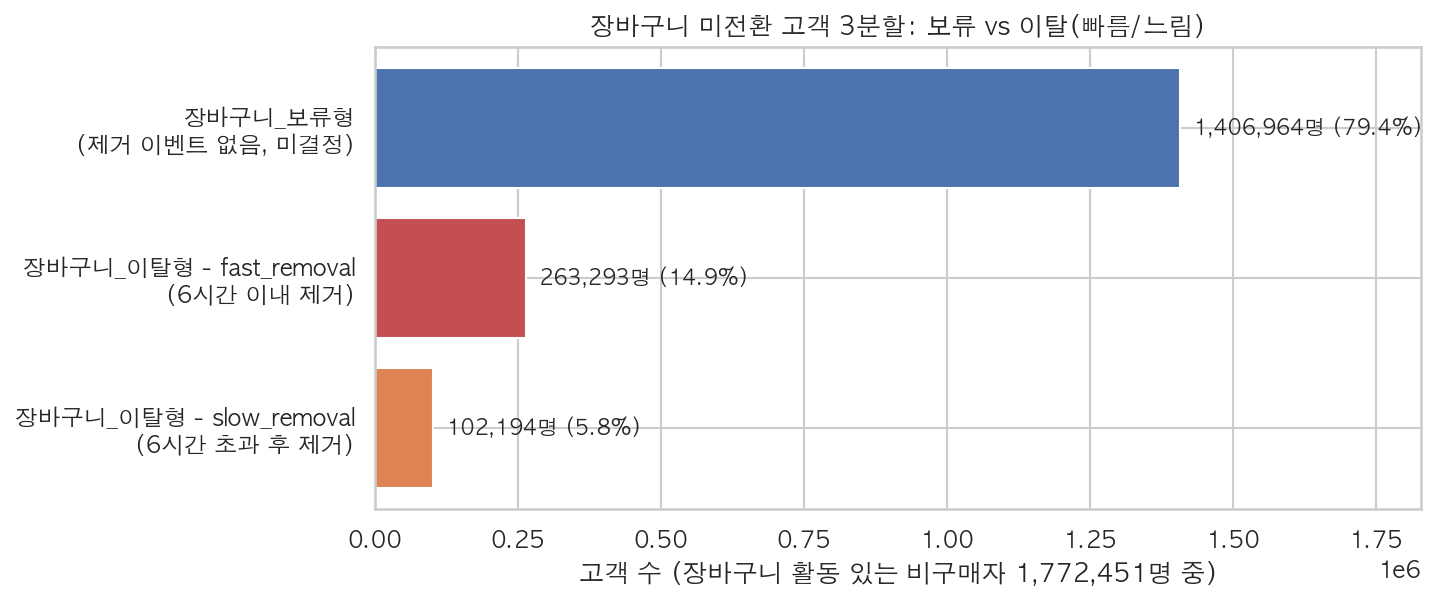
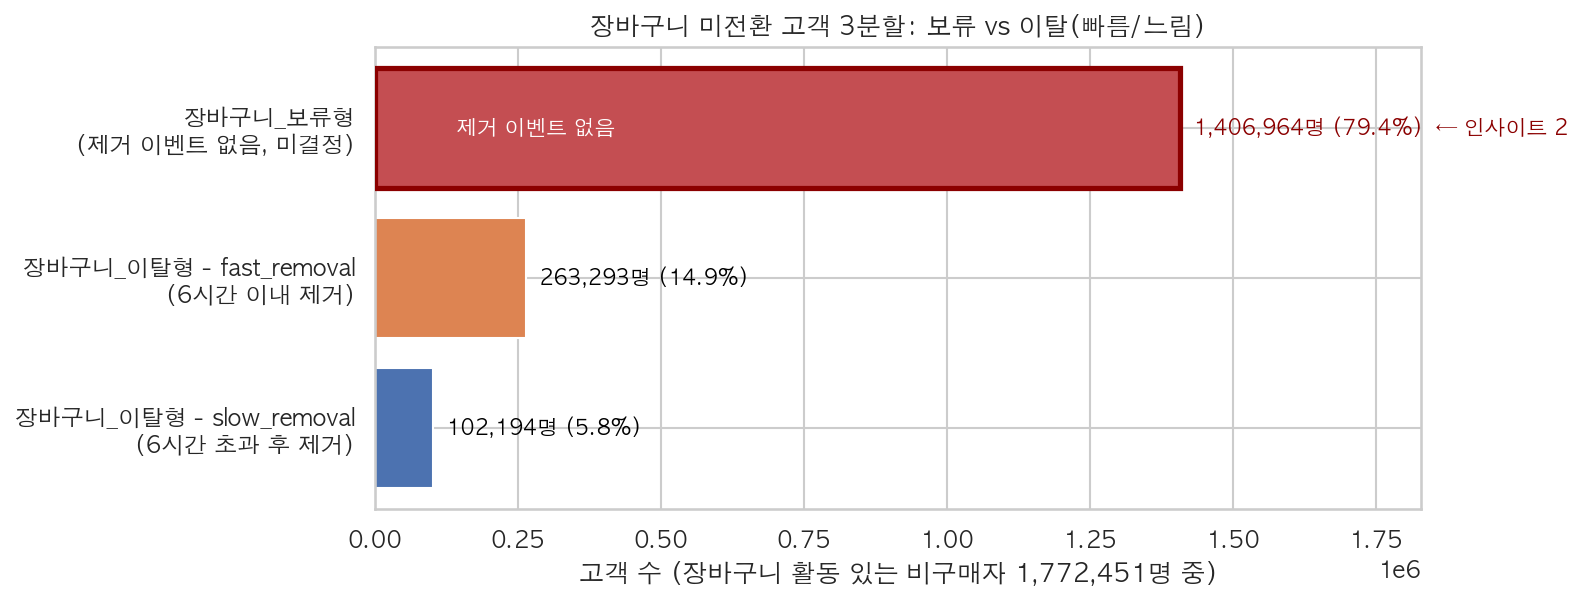
docs: 인사이트 그래프 4개에 핵심 수치 강조 표시 추가
- fig12_buyer_path_breakdown.png: 탐색X·장바구니X 구매(258,808명,
  28.47%) 강조 + "탐색 기록 없음" 라벨
- fig13_cart_segment_split.png: 장바구니_보류형(1,406,964명, 79.4%)
  강조 + "제거 이벤트 없음" 라벨
- 10_model_roc_lift_curves.png: Model A/B 접촉 10% 지점 강조
  (Lift 1.04 vs 6.23) — 본문이 실제 언급한 접촉 비율 기준
- fig14_category_repurchase_rate.png: 카테고리 1096(28.59%, z=95.9)
  강조 — 인접한 미언급 카테고리(5479)는 강조 제외
- 강조 대상은 전부 인사이트 본문에서 이미 숫자로 언급한 지점으로 제한
  (본문에 없는 곡선 최고점·다른 카테고리는 강조하지 않음)
- 검증: 이미지 4개 모두 동일 경로 덮어쓰기(README 참조 불변),
  pytest 125개 통과

diff --git a/scripts/generate_figures.py b/scripts/generate_figures.py
@@ -293,6 +293,7 @@ def fig10_model_roc_lift():
     axes[0].legend()
 
     # Lift curve
+    lifts_at_10 = {}
     for y, score, name, color in [(y_a, score_a, "Model A (churn_14d)", "#C44E52"), (y_b, score_b, "Model B (will_purchase_14d)", "#4C72B0")]:
         order = np.argsort(-score)
         y_sorted = np.asarray(y)[order]
@@ -304,7 +305,29 @@ def fig10_model_roc_lift():
             k = max(1, int(n * pct / 100))
             lifts.append((y_sorted[:k].mean() / base_rate) if base_rate > 0 else np.nan)
         axes[1].plot(pct_range, lifts, label=name, color=color, linewidth=2)
+        lifts_at_10[name] = lifts[9]  # pct_range[9] == 10(%)
     axes[1].axhline(1.0, color="k", linestyle="--", linewidth=1, label="무작위 (Lift=1.0)")
+
+    # 강조 1: Model A — Lift@10%가 무작위 기준선 근처에 눌려 있음 (인사이트 3, "1.0~1.07")
+    lift_a_10 = lifts_at_10["Model A (churn_14d)"]
+    axes[1].scatter([10], [lift_a_10], s=80, facecolors="none", edgecolors="#C44E52", linewidths=2, zorder=5)
+    axes[1].annotate(
+        "Lift 개선 미미\n(1.0~1.07)",
+        xy=(10, lift_a_10), xytext=(28, 2.8),
+        fontsize=9, color="#C44E52", fontweight="bold", ha="center",
+        arrowprops=dict(arrowstyle="->", color="#C44E52", lw=1.5),
+    )
+
+    # 강조 2: Model B — Lift@10% (인사이트 4에서 언급한 6.23배)
+    lift_b_10 = lifts_at_10["Model B (will_purchase_14d)"]
+    axes[1].scatter([10], [lift_b_10], s=80, facecolors="none", edgecolors="#4C72B0", linewidths=2, zorder=5)
+    axes[1].annotate(
+        f"{lift_b_10:.2f}배",
+        xy=(10, lift_b_10), xytext=(35, lift_b_10 + 1.8),
+        fontsize=10, color="#4C72B0", fontweight="bold", ha="center",
+        arrowprops=dict(arrowstyle="->", color="#4C72B0", lw=1.5),
+    )
+
     axes[1].set_xlabel("접촉 비율 (상위 %)")
     axes[1].set_ylabel("Lift")
     axes[1].set_title("Lift Curve (test set, LightGBM)")
@@ -349,13 +372,32 @@ def fig12_buyer_path_breakdown():
         ("X", "X"): "탐색X · 장바구니X (기록 없는 구매)",
     }
     df["label"] = [label_map[(e, c)] for e, c in zip(df["has_explore"], df["has_cart"])]
-    df = df.sort_values("n_customers", ascending=True)
+    df = df.sort_values("n_customers", ascending=True).reset_index(drop=True)
 
     fig, ax = plt.subplots(figsize=(9, 4.5))
     colors = ["#C44E52" if "기록 없는" in l else "#4C72B0" for l in df["label"]]
     bars = ax.barh(df["label"], df["n_customers"], color=colors)
-    for b, n, pct in zip(bars, df["n_customers"], df["pct_of_buyers"]):
-        ax.text(b.get_width(), b.get_y() + b.get_height() / 2, f"  {n:,.0f}명 ({pct:.2f}%)", va="center", fontsize=10)
+    for b, n, pct, lbl in zip(bars, df["n_customers"], df["pct_of_buyers"], df["label"]):
+        is_highlight = "기록 없는" in lbl
+        text = f"  {n:,.0f}명 ({pct:.2f}%)" + ("  ← 인사이트 1" if is_highlight else "")
+        ax.text(
+            b.get_width(), b.get_y() + b.get_height() / 2, text, va="center", fontsize=10,
+            fontweight="bold" if is_highlight else "normal",
+            color="#8B0000" if is_highlight else "black",
+        )
+
+    # 강조: "탐색X·장바구니X (기록 없는 구매)" 막대 — 인사이트 1(28.46%)
+    hpos = df.index[df["label"].str.contains("기록 없는")][0]
+    hbar = bars[hpos]
+    ax.add_patch(plt.Rectangle(
+        (0, hbar.get_y()), hbar.get_width(), hbar.get_height(),
+        fill=False, edgecolor="#8B0000", linewidth=2.5, zorder=5,
+    ))
+    ax.annotate(
+        "탐색 기록 없음",
+        xy=(hbar.get_width() * 0.15, hbar.get_y() + hbar.get_height() / 2),
+        fontsize=10, fontweight="bold", color="white", va="center", ha="left",
+    )
     ax.set_xlabel("구매자 수 (전체 909,210명 중)")
     ax.set_title("구매자의 탐색·장바구니 기록 유무별 경로 분해")
     ax.set_xlim(0, df["n_customers"].max() * 1.35)
@@ -376,13 +418,33 @@ def fig13_cart_segment_split():
         WHERE segment IN ('장바구니_보류형', '장바구니_이탈형')
         GROUP BY 1
         """
-    ).df().sort_values("n", ascending=True)
+    ).df().sort_values("n", ascending=True).reset_index(drop=True)
     total = df["n"].sum()
 
+    colors = ["#C44E52" if "보류형" in g else ("#DD8452" if "fast" in g else "#4C72B0") for g in df["grp"]]
     fig, ax = plt.subplots(figsize=(9, 4))
-    bars = ax.barh(df["grp"], df["n"], color=["#DD8452", "#C44E52", "#4C72B0"])
-    for b, n in zip(bars, df["n"]):
-        ax.text(b.get_width(), b.get_y() + b.get_height() / 2, f"  {n:,.0f}명 ({n/total*100:.1f}%)", va="center", fontsize=10)
+    bars = ax.barh(df["grp"], df["n"], color=colors)
+    for b, n, g in zip(bars, df["n"], df["grp"]):
+        is_highlight = "보류형" in g
+        text = f"  {n:,.0f}명 ({n/total*100:.1f}%)" + ("  ← 인사이트 2" if is_highlight else "")
+        ax.text(
+            b.get_width(), b.get_y() + b.get_height() / 2, text, va="center", fontsize=10,
+            fontweight="bold" if is_highlight else "normal",
+            color="#8B0000" if is_highlight else "black",
+        )
+
+    # 강조: 장바구니_보류형(제거 이벤트 없음) 막대 — 인사이트 2(79.38%)
+    hpos = df.index[df["grp"].str.contains("보류형")][0]
+    hbar = bars[hpos]
+    ax.add_patch(plt.Rectangle(
+        (0, hbar.get_y()), hbar.get_width(), hbar.get_height(),
+        fill=False, edgecolor="#8B0000", linewidth=2.5, zorder=5,
+    ))
+    ax.annotate(
+        "제거 이벤트 없음",
+        xy=(hbar.get_width() * 0.1, hbar.get_y() + hbar.get_height() / 2),
+        fontsize=10, fontweight="bold", color="white", va="center", ha="left",
+    )
     ax.set_xlabel("고객 수 (장바구니 활동 있는 비구매자 1,772,451명 중)")
     ax.set_title("장바구니 미전환 고객 3분할: 보류 vs 이탈(빠름/느림)")
     ax.set_xlim(0, df["n"].max() * 1.3)
@@ -405,6 +467,19 @@ def fig14_category_repurchase_rate():
     bars = ax.bar(labels, values, color=colors)
     for b, v in zip(bars, values):
         ax.text(b.get_x() + b.get_width() / 2, v, f"{v:.2f}%", ha="center", va="bottom", fontsize=11)
+
+    # 강조: 카테고리 1096(28.59%, z=95.9) — 인사이트 5에서 유의미 사례로 인용한 값
+    hbar = bars[1]
+    ax.add_patch(plt.Rectangle(
+        (hbar.get_x(), 0), hbar.get_width(), hbar.get_height(),
+        fill=False, edgecolor="#8B0000", linewidth=2.5, zorder=5,
+    ))
+    ax.annotate(
+        "z=95.9\n(우연 아님)",
+        xy=(hbar.get_x() + hbar.get_width() / 2, hbar.get_height()),
+        xytext=(hbar.get_x() + hbar.get_width() / 2, hbar.get_height() * 0.55),
+        fontsize=10, fontweight="bold", color="white", ha="center", va="center",
+    )
     ax.set_ylabel("재구매율 (%)")
     ax.set_title("카테고리별 재구매율 — 전체 평균 vs 상위 카테고리")
     ax.set_ylim(0, max(values) * 1.2)
